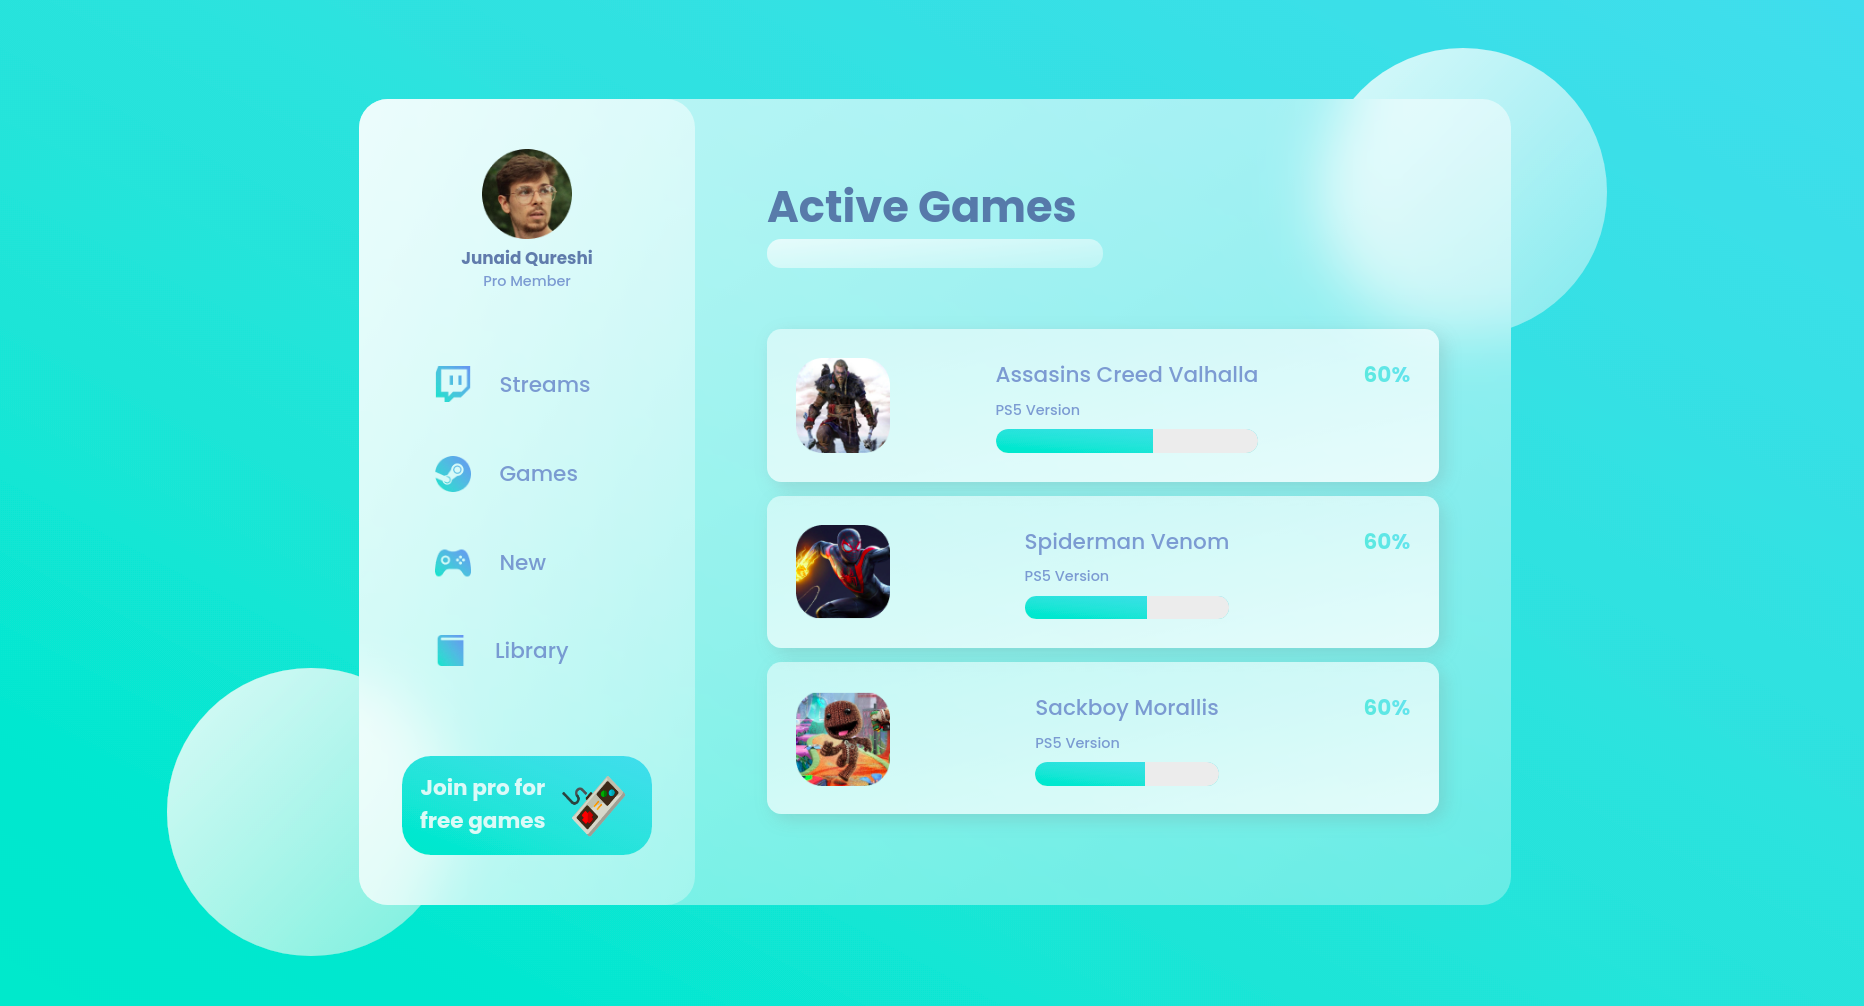
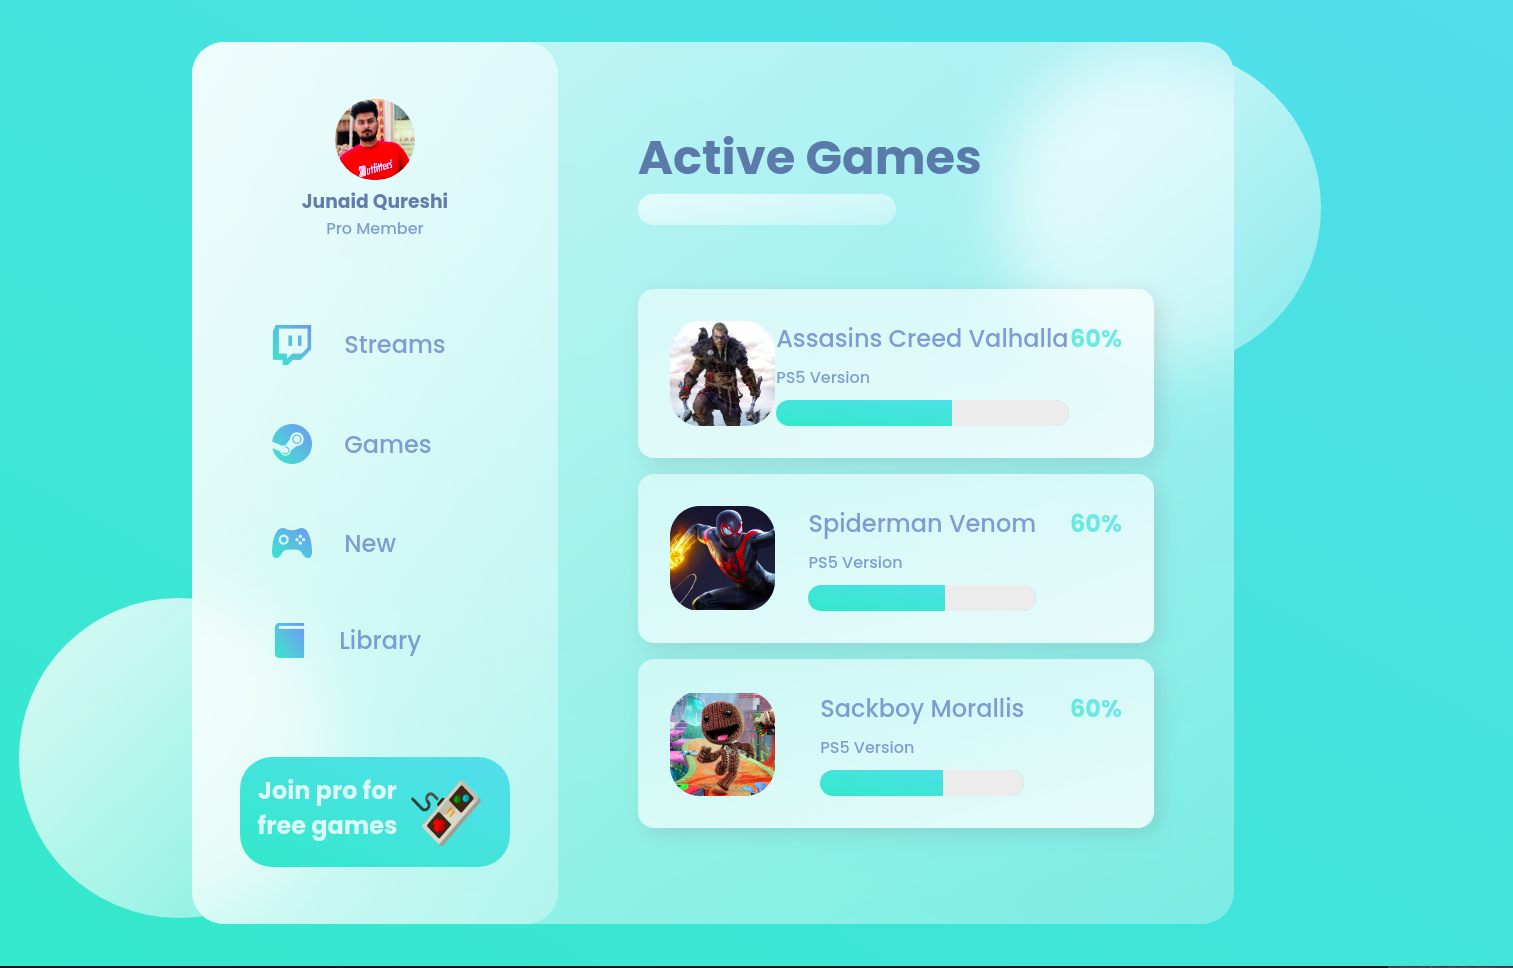
refactored

diff --git a/index.html b/index.html
@@ -1,89 +1,90 @@
 <!DOCTYPE html>
 <html lang="en">
-
-<head>
-    <meta charset="UTF-8">
-    <meta http-equiv="X-UA-Compatible" content="IE=edge">
-    <meta name="viewport" content="width=device-width, initial-scale=1.0">
+  <head>
+    <meta charset="UTF-8" />
+    <meta http-equiv="X-UA-Compatible" content="IE=edge" />
+    <meta name="viewport" content="width=device-width, initial-scale=1.0" />
+    <link rel="icon" href="images/glass.svg" />
     <title>Glass Website</title>
-    <link rel="preconnect" href="https://fonts.googleapis.com">
-    <link rel="preconnect" href="https://fonts.gstatic.com" crossorigin>
-    <link href="https://fonts.googleapis.com/css2?family=Poppins:wght@400;500;700&display=swap" rel="stylesheet">
-    <link rel="stylesheet" href="./style.css">
-</head>
+    <link rel="preconnect" href="https://fonts.googleapis.com" />
+    <link rel="preconnect" href="https://fonts.gstatic.com" crossorigin />
+    <link
+      href="https://fonts.googleapis.com/css2?family=Poppins:wght@400;500;700&display=swap"
+      rel="stylesheet"
+    />
+    <link rel="stylesheet" href="./style.css" />
+  </head>
 
-<body>
+  <body>
     <main>
-        <section class="glass">
-            <div class="dashboard">
-                <div class="user">
-                    <img class="avatar" src="/images/avatar.png" alt="">
-                    <h3>Junaid Qureshi</h3>
-                    <p>Pro Member</p>
-                </div>
-                <div class="links">
-                    <div class="link">
-                        <img src="./images/twitch.png" alt="">
-                        <h2>Streams</h2>
-                    </div>
-                    <div class="link">
-                        <img src="./images/steam.png" alt="">
-                        <h2>Games</h2>
-                    </div>
-                    <div class="link">
-                        <img src="./images/upcoming.png" alt="">
-                        <h2>New</h2>
-                    </div>
-                    <div class="link">
-                        <img src="./images/library.png" alt="">
-                        <h2>Library</h2>
-                    </div>
-                </div>
-                <div class="pro">
-                    <h2>Join pro for free games</h2>
-                    <img src="./images/controller.png" alt="">
-                </div>
+      <section class="glass">
+        <div class="dashboard">
+          <div class="user">
+            <img class="avatar" src="/images/avatar2.jpeg" alt="" />
+            <h3>Junaid Qureshi</h3>
+            <p>Pro Member</p>
+          </div>
+          <div class="links">
+            <div class="link">
+              <img src="./images/twitch.png" alt="" />
+              <h2>Streams</h2>
             </div>
-            <div class="games">
-                <div class="status">
-                    <h1>Active Games</h1>
-                    <input type="text">
-                </div>
-                <div class="cards">
-                    <div class="card">
-                        <img src="./images/assassins.png" alt="">
-                        <div class="card-info">
-                            <h2>Assasins Creed Valhalla</h2>
-                            <p>PS5 Version</p>
-                            <div class="progress"></div>
-                        </div>
-                        <h2 class="percentage">60%</h2>
-                    </div>
-                    <div class="card">
-                        <img src="./images/spiderman.png" alt="">
-                        <div class="card-info">
-                            <h2>Spiderman Venom</h2>
-                            <p>PS5 Version</p>
-                            <div class="progress"></div>
-                        </div>
-                        <h2 class="percentage">60%</h2>
-                    </div>
-                    <div class="card">
-                        <img src="./images/sackboy.png" alt="">
-                        <div class="card-info">
-                            <h2>Sackboy Morallis</h2>
-                            <p>PS5 Version</p>
-                            <div class="progress"></div>
-                        </div>
-                        <h2 class="percentage">60%</h2>
-                    </div>
-                </div>
+            <div class="link">
+              <img src="./images/steam.png" alt="" />
+              <h2>Games</h2>
             </div>
-        </section>
+            <div class="link">
+              <img src="./images/upcoming.png" alt="" />
+              <h2>New</h2>
+            </div>
+            <div class="link">
+              <img src="./images/library.png" alt="" />
+              <h2>Library</h2>
+            </div>
+          </div>
+          <div class="pro">
+            <h2>Join pro for free games</h2>
+            <img src="./images/controller.png" alt="" />
+          </div>
+        </div>
+        <div class="games">
+          <div class="status">
+            <h1>Active Games</h1>
+            <input type="text" />
+          </div>
+          <div class="cards">
+            <div class="card">
+              <img src="./images/assassins.png" alt="" />
+              <div class="card-info">
+                <h2>Assasins Creed Valhalla</h2>
+                <p>PS5 Version</p>
+                <div class="progress"></div>
+              </div>
+              <h2 class="percentage">60%</h2>
+            </div>
+            <div class="card">
+              <img src="./images/spiderman.png" alt="" />
+              <div class="card-info">
+                <h2>Spiderman Venom</h2>
+                <p>PS5 Version</p>
+                <div class="progress"></div>
+              </div>
+              <h2 class="percentage">60%</h2>
+            </div>
+            <div class="card">
+              <img src="./images/sackboy.png" alt="" />
+              <div class="card-info">
+                <h2>Sackboy Morallis</h2>
+                <p>PS5 Version</p>
+                <div class="progress"></div>
+              </div>
+              <h2 class="percentage">60%</h2>
+            </div>
+          </div>
+        </div>
+      </section>
     </main>
     <div class="circle1"></div>
     <div class="circle2"></div>
-
-</body>
-
+  </body>
 </html>

diff --git a/style.css b/style.css
@@ -81,6 +81,11 @@ main {
   text-align: center;
 }
 
+.user > img {
+  width: 80px;
+  border-radius: 50%;
+}
+
 .dashboard {
   flex: 1;
   display: flex;

diff --git a/readme.md b/readme.md
@@ -1,5 +1,7 @@
 # Glass Website
 
+## :link: https://glass-ui-website.netlify.app/
+
 # HOMEPAGE
 
 <img src='images/home.png'/>
